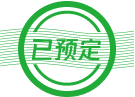
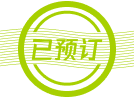
UI

diff --git a/miniprogram/pages/me/index.js b/miniprogram/pages/me/index.js
@@ -11,7 +11,7 @@ import getConstants, {
   COMMODITY_STATUS_SELLING,
   COMMODITY_STATUS_DEACTIVATED,
   HELP_STATUS_RUNNING,
-  HELP_STATUS_FINISHED, HELP_STATUS_RESOLVED
+  HELP_STATUS_FINISHED, HELP_STATUS_RESOLVED, COMMODITY_STATUS_BOOKED, HELP_STATUS_RESOLVING
 } from "../../constants";
 import api from "../../api/api";
 import {
@@ -92,8 +92,8 @@ Page({
       ],
       my_helps: [
         { text: '进行中', key: 'all', type: 'help' },
-        { text: '悬赏中', key: 'has-bounty', type: 'help' },
         { text: '已结束', key: 'finished', type: 'help' },
+        { text: '已解决', key: 'resolved', type: 'help' },
         { text: '已领赏', key: 'got-bounty', type: 'help' },
       ],
       collected: [
@@ -122,9 +122,10 @@ Page({
                   status: COMMODITY_STATUS_SOLD,
                   role: 'buyer'
                 });
+                showStatusImage = false;
               } else {
                 const status = {
-                  selling: COMMODITY_STATUS_SELLING,
+                  selling: [COMMODITY_STATUS_SELLING, COMMODITY_STATUS_BOOKED],
                   deactivated: COMMODITY_STATUS_DEACTIVATED,
                   sold: COMMODITY_STATUS_SOLD,
                 }[currTab];
@@ -136,25 +137,26 @@ Page({
                   status,
                   role: 'seller'
                 });
+                showStatusImage = currTab === 'selling';
               }
-              showStatusImage = false;
             } else if (type === 'my_helps') {
               listType = 'help';
               if (currTab === 'got-bounty') {
                 resp = await HelpAPI.listMine({ start, count, role: 'buyer', status: HELP_STATUS_RESOLVED });
               } else {
                 const status = {
-                  'all': HELP_STATUS_RUNNING,
-                  'has-bounty': HELP_STATUS_RUNNING,
+                  'all': [HELP_STATUS_RUNNING, HELP_STATUS_RESOLVING],
                   'finished': HELP_STATUS_FINISHED,
+                  'resolved': HELP_STATUS_RESOLVED,
                 }[currTab];
                 if (status === undefined) {
                   throw Error('无效的状态')
                 }
+
                 resp = await HelpAPI.listMine({
                   start, count,
-                  status, role: 'seller',
-                  onlyBounty: currTab === 'has-bounty'
+                  status,
+                  role: 'seller',
                 });
               }
               showStatusImage = false;
@@ -226,7 +228,7 @@ Page({
                   return;
                 }
                 toastSucceed('成功');
-                return { action: 'fetchSingle' };
+                return { action: 'fetchAll' };
               },
               activate: async () => {
                 await ensureVerified();
@@ -242,7 +244,7 @@ Page({
                   return;
                 }
                 toastSucceed('上架成功');
-                return { action: 'fetchSingle' };
+                return { action: 'fetchAll' };
               },
               edit: async () => {
                 await ensureVerified();
@@ -251,7 +253,7 @@ Page({
                 } else {
                   await openHelpEdit(item, true);
                 }
-                return { action: 'fetchSingle' };
+                return { action: 'fetchAll' };
               },
               delete: async () => {
                 await ensureVerified();

diff --git a/miniprogram/api/HelpAPI.ts b/miniprogram/api/HelpAPI.ts
@@ -38,14 +38,15 @@ export const HelpAPI = {
     })));
   },
   async listMine(params: {
-    status: number, role: 'buyer' | 'seller',
+    status: number | number[], role: 'buyer' | 'seller',
     start: number, count: number, onlyBounty?: boolean,
   }) {
     return convertListResp(wrapResp(await request({
       path: '/help/getMyHelps',
       data: {
-        status: params.status, start: params.start, count: params.count,
-        role: params.role, only_bounty: Boolean(params.onlyBounty)
+        start: params.start, count: params.count,
+        role: params.role, only_bounty: Boolean(params.onlyBounty),
+        status_list: Array.isArray(params.status) ? params.status : [params.status]
       },
     })));
   },

diff --git a/miniprogram/api/CommodityAPI.ts b/miniprogram/api/CommodityAPI.ts
@@ -79,12 +79,16 @@ export const CommodityAPI = {
     }));
   },
   async listMine(params: {
-    status: number, role: 'buyer' | 'seller',
+    status: number | number[], role: 'buyer' | 'seller',
     start: number, count: number
   }) {
     return convertListResp(wrapResp(await request({
       path: '/commodity/getMyCommodities',
-      data: params,
+      data: {
+        start: params.start, count: params.count,
+        role: params.role,
+        status_list: Array.isArray(params.status) ? params.status : [params.status]
+      },
     })));
   },
   async listCollected(params: { start: number, count: number }) {

diff --git a/miniprogram/components/CommodityListCard/index.js b/miniprogram/components/CommodityListCard/index.js
@@ -83,7 +83,7 @@ Component({
         ridToRegion: app.globalData.ridToRegion,
         statusImage: !showStatusImage ? null : ({
           [COMMODITY_STATUS_SOLD]: '/images/已成交.png',
-          [COMMODITY_STATUS_BOOKED]: '/images/已预定.png',
+          [COMMODITY_STATUS_BOOKED]: '/images/已预订.png',
           [COMMODITY_STATUS_DEACTIVATED]: '/images/已结束.png',
         })[status] ?? '',
       })

diff --git a/miniprogram/pages/verify/index.ts b/miniprogram/pages/verify/index.ts
@@ -35,6 +35,7 @@ Page({
   },
   onUnload() {
     this._subscription?.unsubscribe();
+    app.fetchSelfInfo();
   },
   getSubscription() {
     return this._subscription!!;
